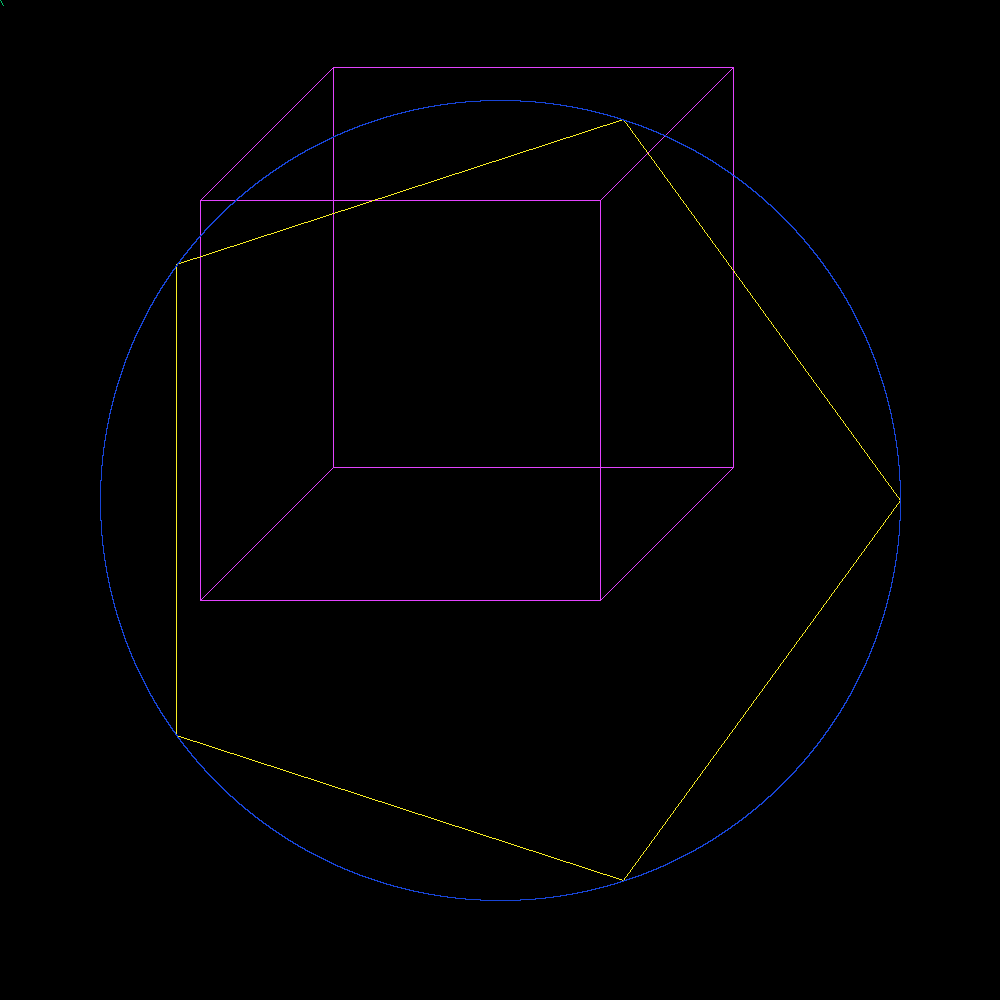
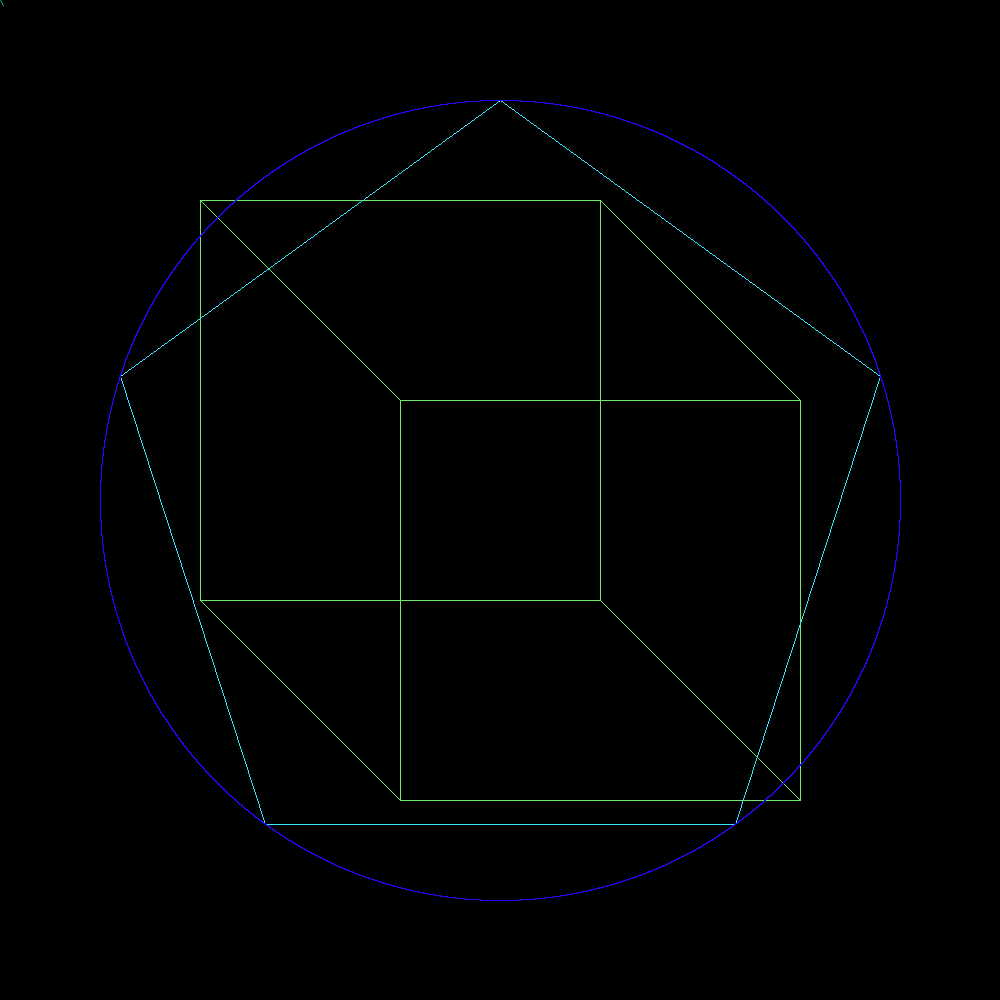
cube

Changed region(s): [[0.775, 0.775, 0.806, 0.806]]

diff --git a/src/geometrical_shapes.rs b/src/geometrical_shapes.rs
@@ -25,7 +25,7 @@ pub struct Point {
 
 impl Point {
     pub fn new(x: i32, y: i32) -> Self {
-        Self { x, y }
+        Point { x, y }
     }
 
     pub fn random(width: i32, height: i32) -> Self {
@@ -63,7 +63,8 @@ impl Line {
 
 impl Drawable for Line {
     fn draw(&self, image: &mut Image) {
-        draw_line(self, image, self.color());
+        let color = self.color();
+        draw_line(self, image, color.clone());
     }
 }
 
@@ -217,23 +218,34 @@ impl Pentagon {
         )
     }
 }
+
 impl Drawable for Pentagon {
     fn draw(&self, image: &mut Image) {
-        let mut last_x = self.radius + self.center.x;
-        let mut last_y = self.center.y;
+        let mut deta = 54.0;
+        let ang_intial = (deta * std::f64::consts::PI / 180.0) as f32;
+        let mut last_x =
+            ((self.radius as f32) * ang_intial.cos() + self.center.x as f32).round() as i32;
+        let mut last_y =
+            ((self.radius as f32) * ang_intial.sin() + self.center.y as f32).round() as i32;
         let color = self.color();
-        for i in 1..=5 {
+        for i in 0..5 {
+            deta += 72.0;
             let last_point = Point::new(last_x, last_y);
-            let angle = ((i as f64 * (360.0 / 5.0)) * std::f64::consts::PI / 180.0) as f32;
-            let x = ((self.radius as f32 * angle.cos()) + self.center.x as f32).floor() as i32;
-            let y = ((self.radius as f32 * angle.sin()) + self.center.y as f32).floor() as i32;
+            let ang = (deta as f64) * std::f64::consts::PI / 180.0;
+            let x = ((self.radius as f64) * ang.cos() + self.center.x as f64).round() as i32;
+            let y = ((self.radius as f64) * ang.sin() + self.center.y as f64).round() as i32;
             last_x = x;
             last_y = y;
-            let line = Line::new(&last_point, &Point::new(x, y));
-            draw_line(&line, image, color.clone());
+            draw_line(
+                &Line::new(&last_point, &Point::new(x, y)),
+                image,
+                color.clone(),
+            );
         }
     }
 }
+
+
 
 pub struct Cube {
     point1: Point,
@@ -251,49 +263,45 @@ impl Cube {
 
 impl Drawable for Cube {
     fn draw(&self, image: &mut Image) {
-        let d = ((self.point2.x - self.point1.x).abs()) / 3;
-        let p1: Point = Point {
+        let r = (self.point1.x - self.point2.x).abs()/2;
+        let ang = std::f64::consts::PI/4.0;
+        let p1 = Point {
             x: self.point1.x,
             y: self.point2.y,
         };
-        let p2 = &self.point2;
-        let p3 = Point {
+        let p2 = Point {
             x: self.point2.x,
             y: self.point1.y,
         };
-        let p4 = &self.point1;
-
-        let p5: Point = Point {
-            x: self.point2.x + d,
-            y: self.point2.y - d,
+        let a1 = Point{
+            x : p1.x+r,
+            y: p1.y+r,
         };
-        let p6 = Point {
-            x: p1.x + d,
-            y: p1.y - d,
+        let a2 = Point{
+            x : p2.x+r,
+            y: p2.y+r,
         };
-        let p7 = Point {
-            x: self.point1.x + d,
-            y: self.point1.y - d,
+        let a3 = Point{
+            x : self.point1.x+r,
+            y: self.point1.y+r,
         };
-        let p8 = Point {
-            x: p3.x + d,
-            y: p3.y - d,
+        let a4 = Point{
+            x : self.point2.x+r,
+            y: self.point2.y+r,
         };
 
         let color = self.color();
-        draw_line(&Line::new(&p1, &p2), image, color.clone());
-        draw_line(&Line::new(&p2, &p3), image, color.clone());
-        draw_line(&Line::new(&p3, &p4), image, color.clone());
-        draw_line(&Line::new(&p4, &p1), image, color.clone());
-
-        draw_line(&Line::new(&p5, &p6), image, color.clone());
-        draw_line(&Line::new(&p6, &p7), image, color.clone());
-        draw_line(&Line::new(&p7, &p8), image, color.clone());
-        draw_line(&Line::new(&p8, &p5), image, color.clone());
-
-        draw_line(&Line::new(&p2, &p5), image, color.clone());
-        draw_line(&Line::new(&p1, &p6), image, color.clone());
-        draw_line(&Line::new(&p4, &p7), image, color.clone());
-        draw_line(&Line::new(&p3, &p8), image, color.clone());
+        draw_line(&Line::new(&p1, &self.point2), image, color.clone());
+        draw_line(&Line::new(&self.point2, &p2), image, color.clone());
+        draw_line(&Line::new(&p2, &self.point1), image, color.clone());
+        draw_line(&Line::new(&self.point1, &p1), image, color.clone());
+        draw_line(&Line::new(&p1,&a1),image,color.clone());
+        draw_line(&Line::new(&p2,&a2),image,color.clone());
+        draw_line(&Line::new( &self.point1,&a3),image,color.clone());
+        draw_line(&Line::new( &self.point2,&a4),image,color.clone());
+        draw_line(&Line::new(&a3,&a1),image,color.clone());
+        draw_line(&Line::new(&a4,&a2),image,color.clone());
+        draw_line(&Line::new(&a4,&a1),image,color.clone());
+        draw_line(&Line::new(&a3,&a2),image,color.clone());
     }
 }
